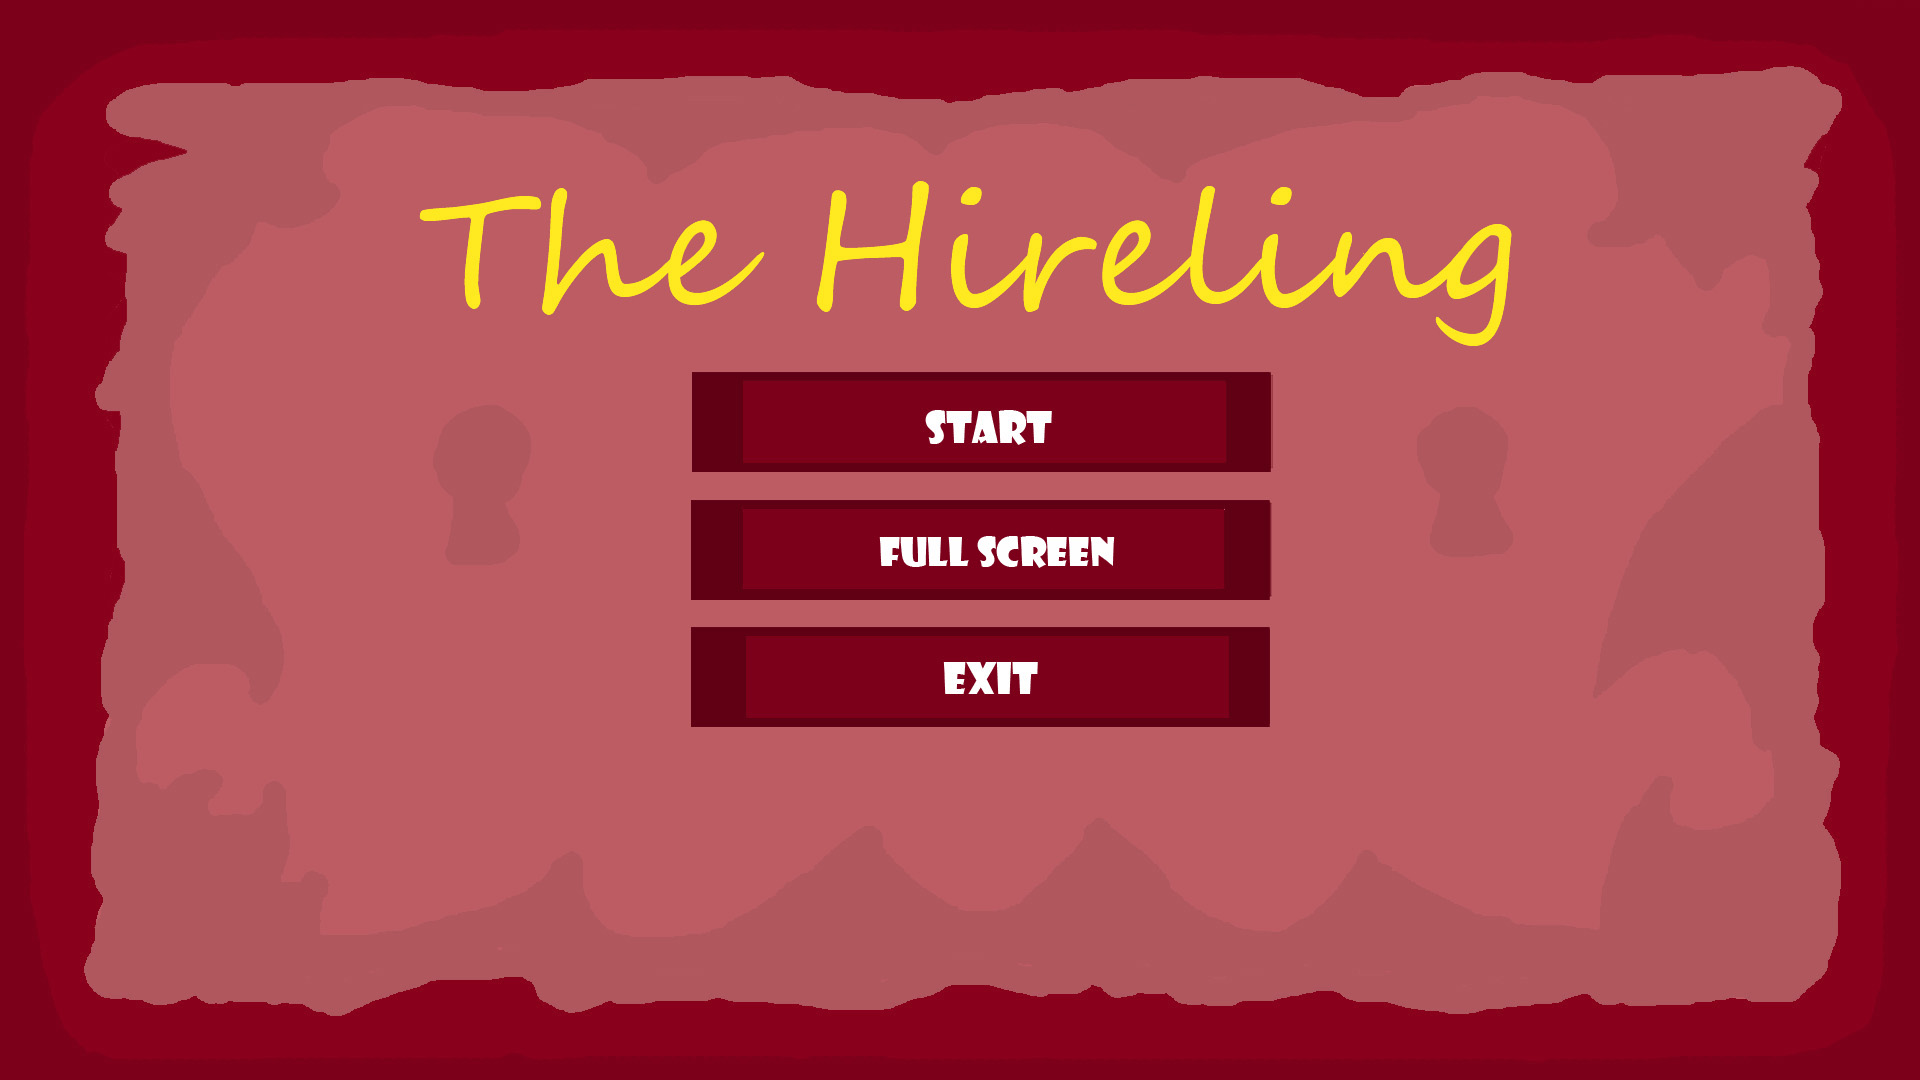
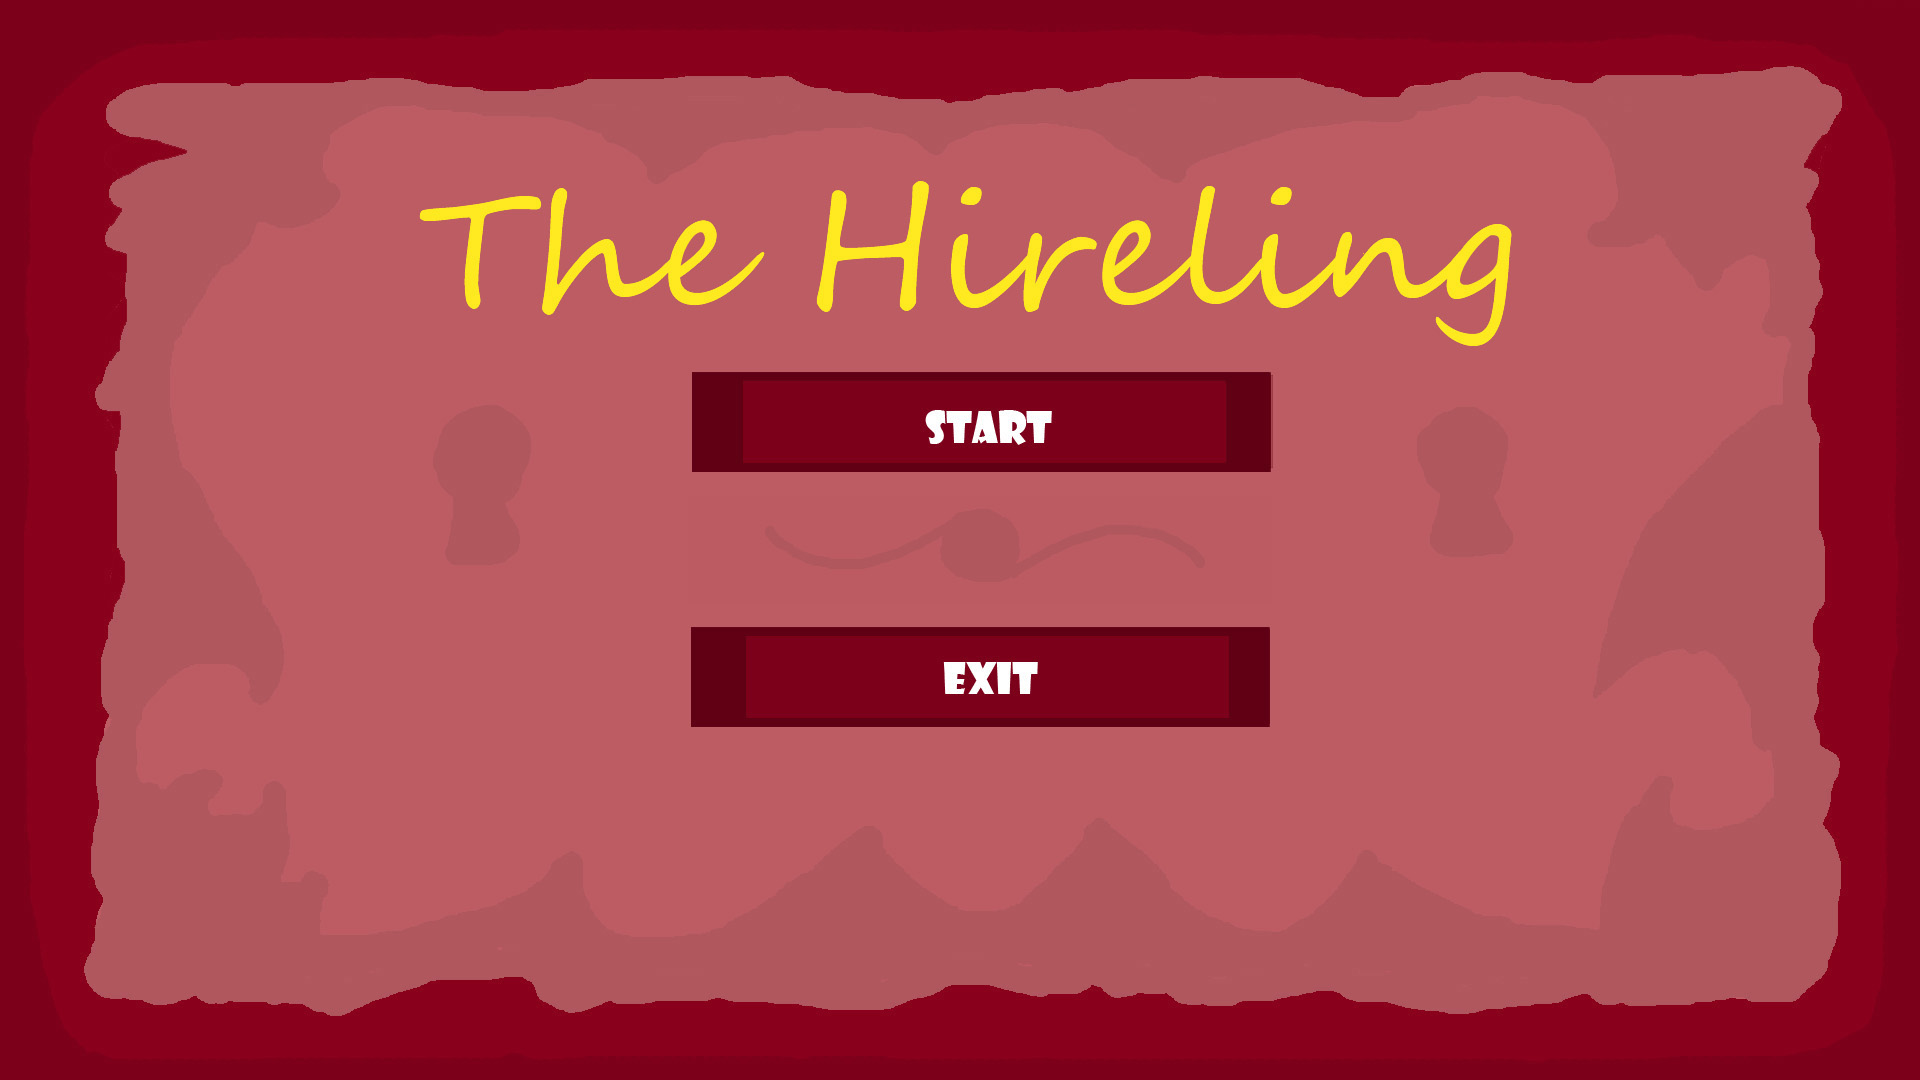
full screen

Changed region(s): [[0.3438, 0.4583, 0.6875, 0.5806]]

diff --git a/menu.py b/menu.py
@@ -13,15 +13,11 @@ class Menu:
         self.background = pygame.transform.scale(MENU['menu'], self.resolution)
         self.arrow = pygame.transform.scale(CURSOR['arrow'], (self.x_size // 1280 * 50, self.y_size // 720 * 47))
         self.start_sprite = pygame.sprite.Sprite()
-        self.options_sprite = pygame.sprite.Sprite()
         self.exit_sprite = pygame.sprite.Sprite()
         self.start_sprite.rect = MENU['start_collider'].get_rect()
-        self.options_sprite.rect = MENU['options_collider'].get_rect()
         self.exit_sprite.rect = MENU['exit_collider'].get_rect()
         self.start_sprite.rect.x = self.x_size / self.max_x_size * 687
         self.start_sprite.rect.y = self.y_size / self.max_y_size * 367
-        self.options_sprite.rect.x = self.x_size / self.max_x_size * 687
-        self.options_sprite.rect.y = self.y_size / self.max_y_size * 500
         self.exit_sprite.rect.x = self.x_size / self.max_x_size * 687
         self.exit_sprite.rect.y = self.y_size / self.max_y_size * 625
 
@@ -44,10 +40,6 @@ class Menu:
                             pygame.display.flip()
                             pygame.time.Clock().tick(FPS)
                             return False
-                    if mouse_x > self.options_sprite.rect.x and mouse_y > self.options_sprite.rect.y:
-                        if mouse_x < self.options_sprite.rect.x + 585 * self.x_size / self.max_x_size \
-                                and mouse_y < self.options_sprite.rect.y + 105 * self.y_size / self.max_y_size:
-                            self.background = pygame.transform.scale(MENU["options_tapped"], self.resolution)
                     if mouse_x > self.exit_sprite.rect.x and mouse_y > self.exit_sprite.rect.y:
                         if mouse_x < self.exit_sprite.rect.x + 585 * self.x_size / self.max_x_size \
                                 and mouse_y < self.exit_sprite.rect.y + 105 * self.y_size / self.max_y_size:

diff --git a/functions.py b/functions.py
@@ -86,8 +86,11 @@ def ingame_menu_start():
                     if mouse_x > width * 3 // 4 - 41 / 128 * width and mouse_y > height * 15 // 16 - 27.5 / 72 * height:
                         if mouse_x < width * 3 // 4 - 21.5 / 128 * width:
                             if mouse_y < height * 15 // 16 - 21.5 / 72 * height:
+                                paused = False
                                 little_menu = pygame.transform.scale(INGAME_MENU['ingame_menu_options'],
                                                                      (width // 2, width // 2))
+                                pygame.display.set_mode(size, pygame.FULLSCREEN)
+                                running = True
                     if mouse_x > width * 3 // 4 - 41 / 128 * width and mouse_y > height * 15 // 16 - 20 / 72 * height:
                         if mouse_x < width * 3 // 4 - 21.5 / 128 * width:
                             if mouse_y < height * 15 // 16 - 14 / 72 * height:

diff --git a/room.py b/room.py
@@ -1,4 +1,4 @@
-from wall import Walls
+from wall import Wall
 from surface import Surface
 from various import *
 from sprites import *
